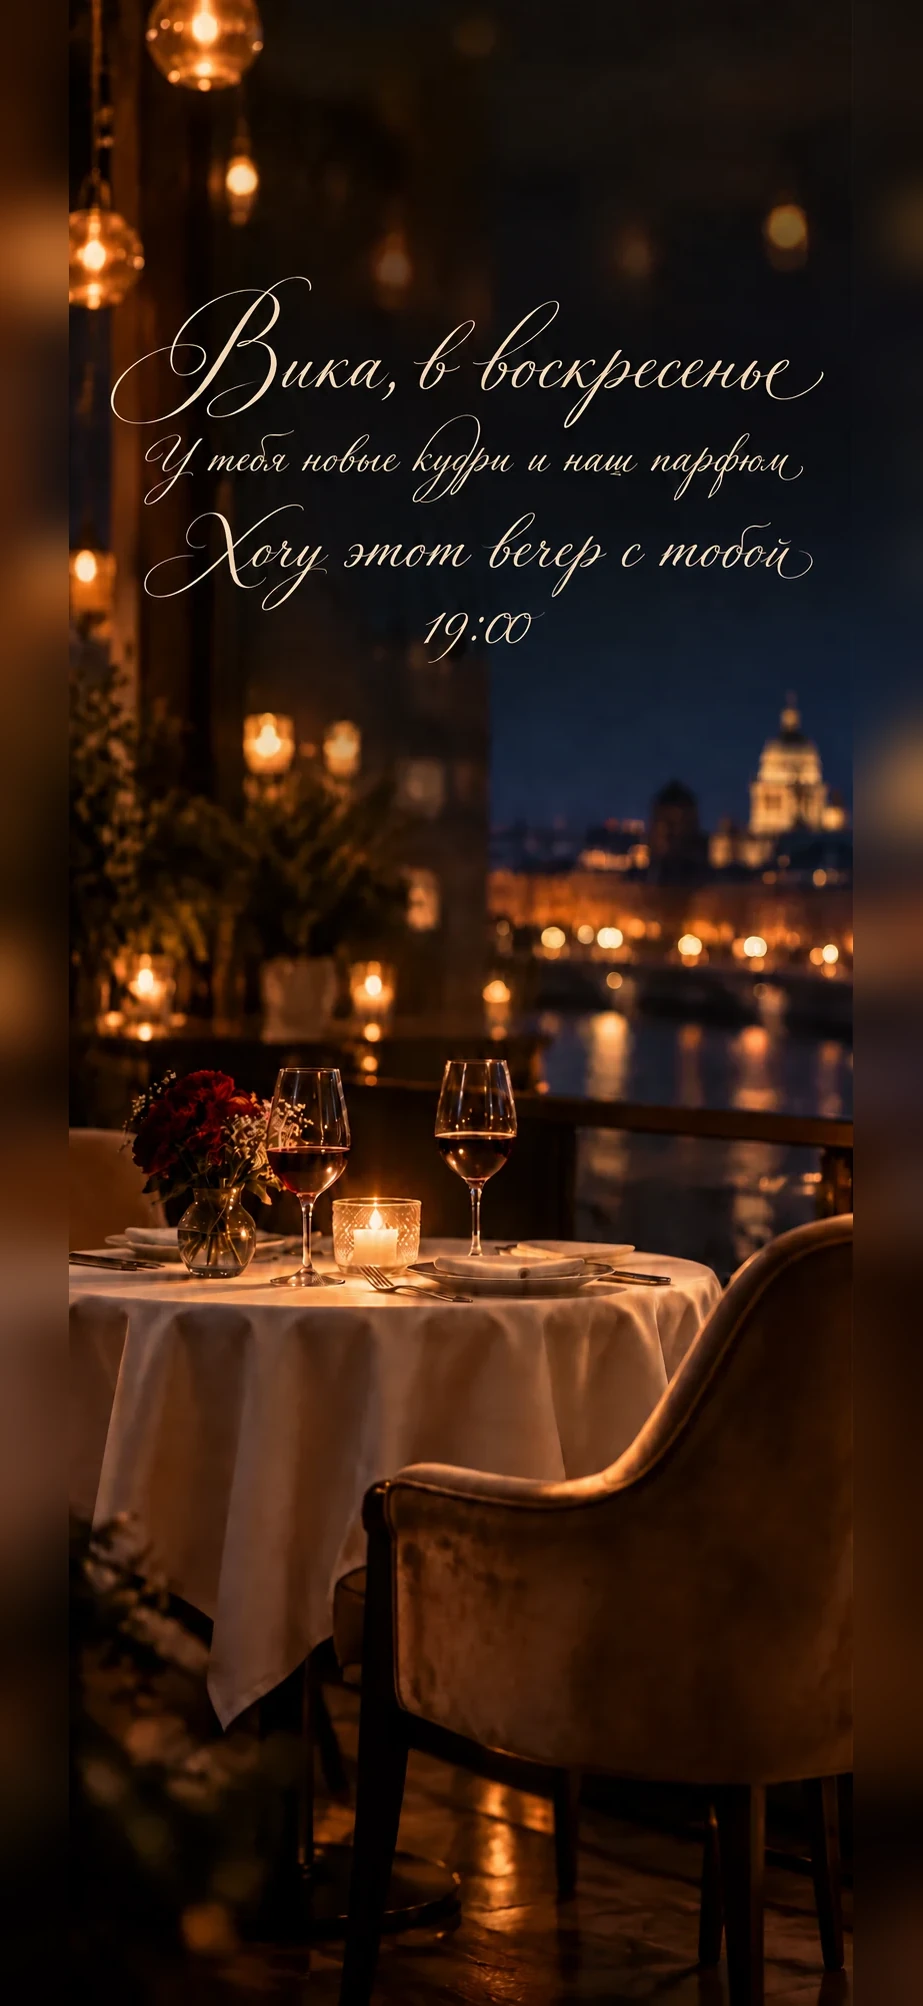
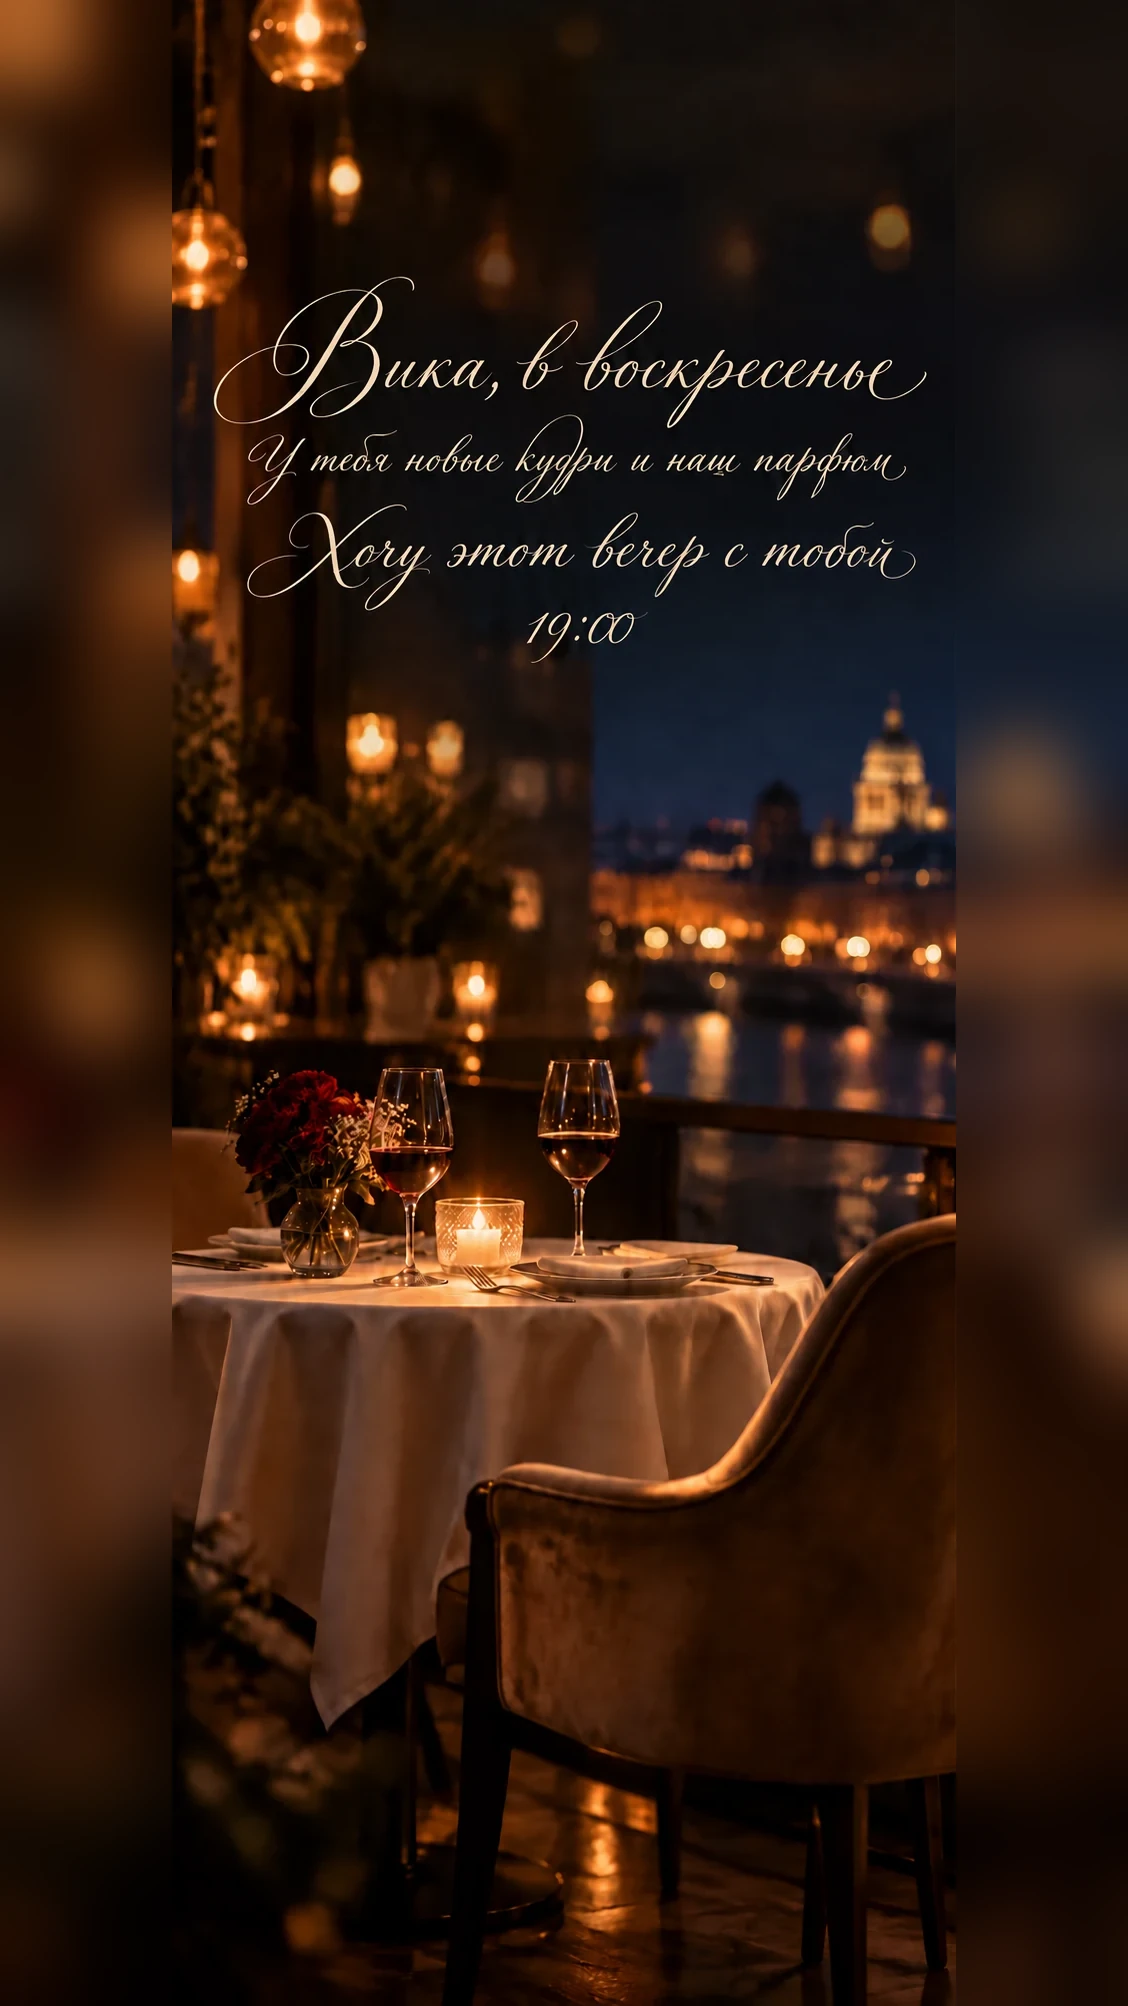
[Fix] Widen the artwork past the shortest viewport, not the tallest
The previous pass matched the artwork to the bare screen, 1:2.17. But
Safari shows an address bar, and the viewport it leaves is 1:1.94 -
shorter and therefore wider in proportion. cover matched the width
against that and went on trimming the top and bottom.

Widen to 1:1.78 instead, which is wider than every viewport this has to
fill, SE included. cover now spends its crop on the sides, in the
invented margin, and takes nothing off the top or bottom on any of the
five screen shapes measured. Same approach as weekend-date, whose art is
1:1.78 and 1:1.33 for the same reason.

Rebuilt from the original 784px files rather than the widened ones, so
the mirrored edges are blurred once, not twice.

diff --git a/index.html b/index.html
@@ -175,11 +175,14 @@ body.is-solved .tile {
   inset: 0;
   width: 100%;
   height: 100%;
-  /* The artwork was widened to 1:2.17 - the shape of the phone - by
-     extending its own dark, blurred edges outward, so `cover` now fills
-     the screen while cropping almost nothing. The lettering sits well
-     inside the original frame, so the little that a taller or shorter
-     viewport does trim never reaches the words. */
+  /* The artwork was widened to 1:1.78 by extending its own dark, blurred
+     edges outward. That is wider than the shortest viewport this has to
+     fill - Safari with its chrome showing, which is 1:1.94, not the
+     1:2.17 of the bare screen - so `cover` now spends its crop on the
+     sides, where the invented margin lives, and never on the top and
+     bottom, where the lettering and the table are. Matching the phone
+     exactly was the earlier mistake: the moment the address bar appeared,
+     the screen got shorter and the crop came back. */
   object-fit: cover;
   opacity: 0;
   z-index: 5;
@@ -366,7 +369,7 @@ const CONFIG = {
 
   // The aspect ratio the images were generated at (width / height).
   // Measured from the generated artwork itself, not from a target device.
-  aspect: 923 / 2006,
+  aspect: 1128 / 2006,
 
   prompt: "собери",
   cta: "Я согласна",
